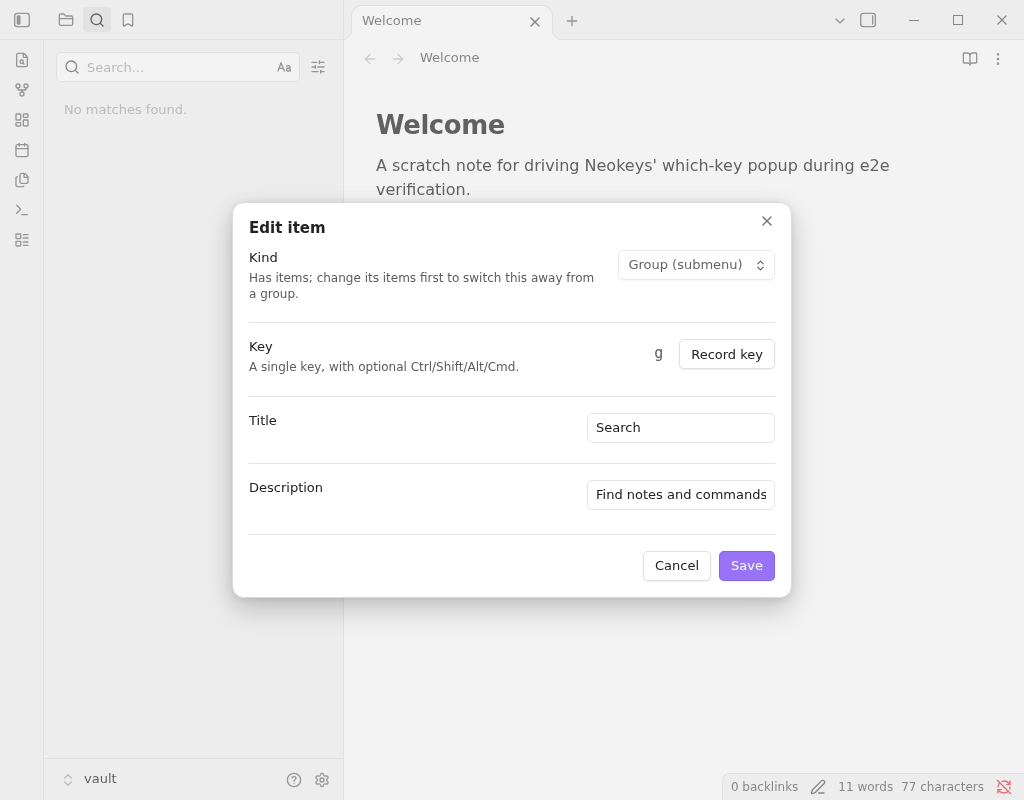
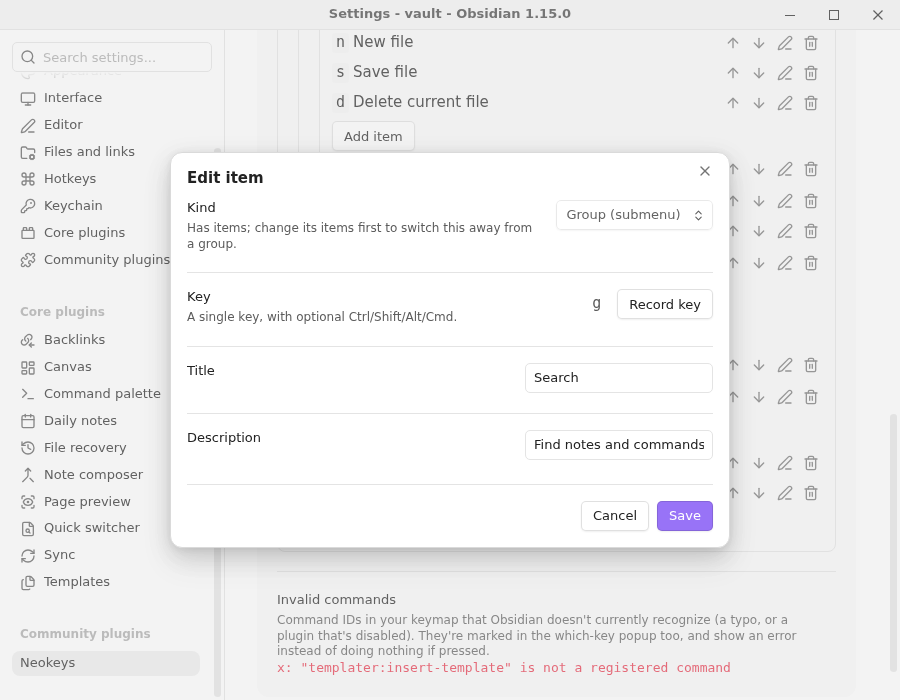
docs: re-shoot screenshots for the popout-window dialog fix, use an ordinary shipping note
The group Edit/Add dialogs and command picker now visibly open over the
popout Settings window instead of over the main note editor, matching
the code fix. Adds a delete-confirmation screenshot and swaps the e2e
vault's note for ordinary content instead of text describing the e2e
harness itself.

diff --git a/README.md b/README.md
@@ -137,7 +137,10 @@ Any edit made in the tree editor rewrites the stored keymap in a normalized YAML
 dropped and the short command form (`"<command-id> <description>"`) is expanded into explicit
 `command`/`description` fields. Editing only through the YAML/JSON view never rewrites anything, so
 your comments and formatting are kept exactly as you wrote them there. Deleting a group that still
-has items asks for confirmation first; deleting anything else happens in one click.
+has items asks for confirmation first, naming the group and how many entries it contains; deleting
+anything else happens in one click.
+
+![Confirmation dialog before deleting a non-empty group, naming it and its entry count](docs/screenshots/phase2/tree-editor-delete-confirm-dark.png)
 
 A keymap can still *parse* successfully but reference a command ID Obsidian doesn't currently
 recognize (a typo, or a plugin that's disabled) - this doesn't block saving, since the command
